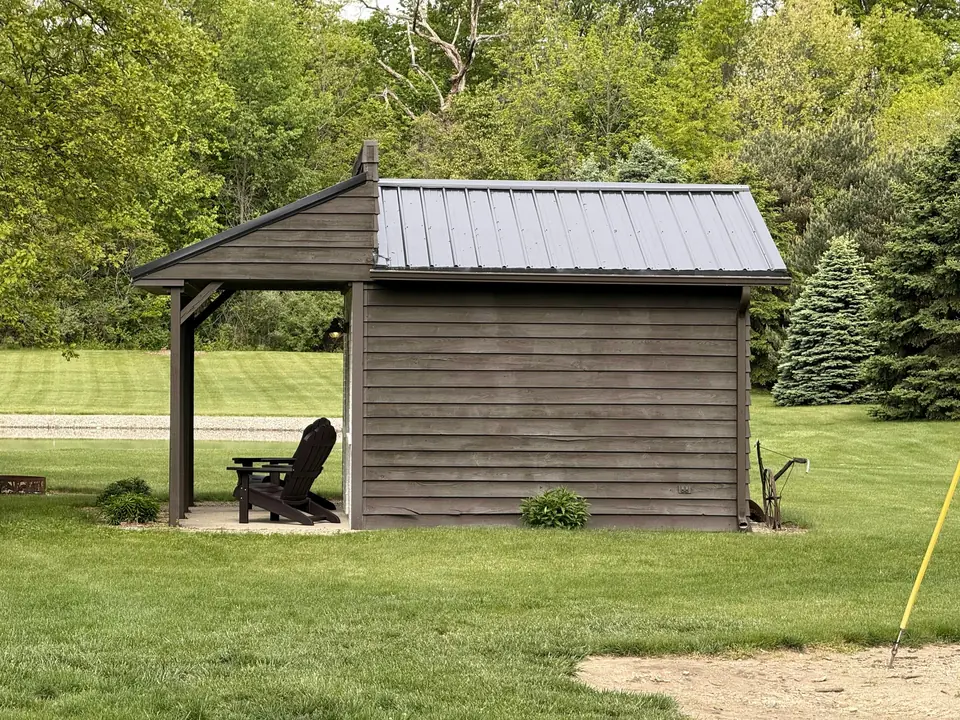
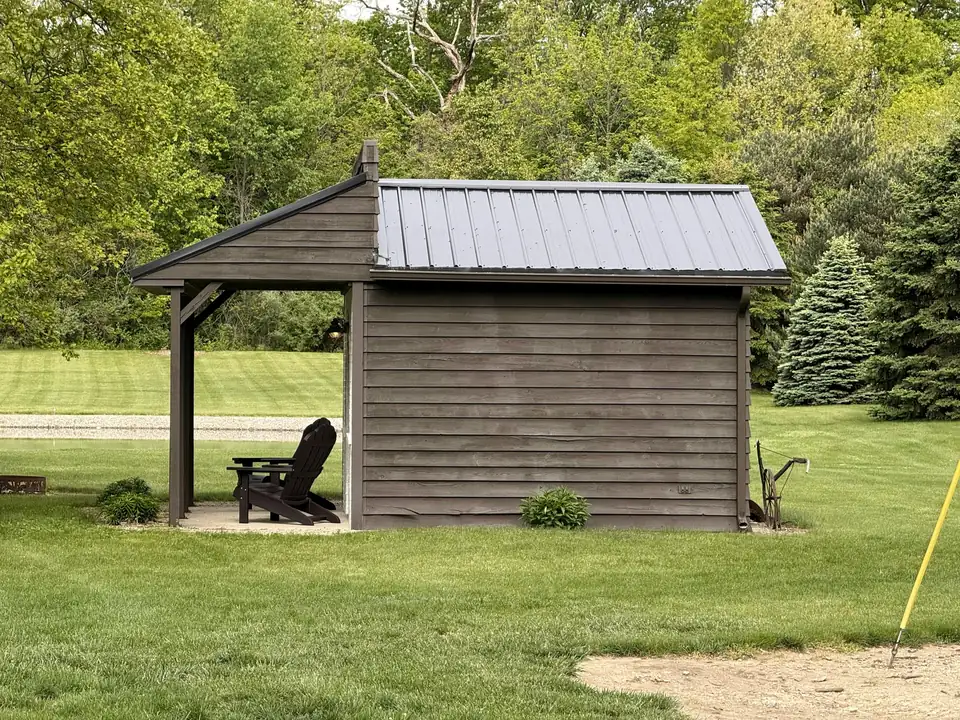
perf: add 720w photo variants and lighten the wide garden shot

diff --git a/galleria.html b/galleria.html
@@ -7,7 +7,7 @@
   <meta name="description" content="Foto e ispirazioni: la casetta da giardino Sally dentro e fuori, in giardino e come studio.">
   <meta name="theme-color" content="#ffffff">
   <link rel="icon" href="assets/favicon.svg" type="image/svg+xml">
-  <link rel="preload" as="image" href="assets/img/esterno-960.webp" imagesrcset="assets/img/esterno-480.webp 480w, assets/img/esterno-960.webp 960w" imagesizes="(min-width: 64em) 33vw, (min-width: 40em) 50vw, 100vw" fetchpriority="high">
+  <link rel="preload" as="image" href="assets/img/esterno-720.webp" imagesrcset="assets/img/esterno-480.webp 480w, assets/img/esterno-720.webp 720w, assets/img/esterno-960.webp 960w" imagesizes="(min-width: 64em) 33vw, (min-width: 40em) 50vw, 100vw" fetchpriority="high">
   <link rel="stylesheet" href="css/style.css">
   <script>document.documentElement.classList.add('js');</script>
   <script src="js/main.js" defer></script>
@@ -57,8 +57,8 @@
           <li class="gallery__item gallery__item--wide">
             <figure class="gallery__figure">
               <a class="gallery__link" href="assets/img/esterno-1440.webp" data-lightbox>
-                <img src="assets/img/esterno-960.webp"
-                     srcset="assets/img/esterno-480.webp 480w, assets/img/esterno-960.webp 960w"
+                <img src="assets/img/esterno-720.webp"
+                     srcset="assets/img/esterno-480.webp 480w, assets/img/esterno-720.webp 720w, assets/img/esterno-960.webp 960w"
                      sizes="(min-width: 64em) 33vw, (min-width: 40em) 50vw, 100vw" width="1440" height="960"
                      alt="Casetta da giardino bianca con porta e finestra verde scuro, davanti a una siepe" fetchpriority="high" decoding="async">
                 <span class="visually-hidden">(apri ingrandimento)</span>
@@ -70,9 +70,9 @@
             <figure class="gallery__figure">
               <a class="gallery__link" href="assets/img/porta-1440.webp" data-lightbox>
                 <img src="assets/img/porta-960.webp"
-                     srcset="assets/img/porta-480.webp 480w, assets/img/porta-960.webp 960w"
+                     srcset="assets/img/porta-480.webp 480w, assets/img/porta-720.webp 720w, assets/img/porta-960.webp 960w"
                      sizes="(min-width: 64em) 33vw, (min-width: 40em) 50vw, 100vw" width="1440" height="2561"
-                     alt="Porta aperta di una casetta bianca, con attrezzi e vasi ordinati all’interno" decoding="async">
+                     alt="Porta aperta di una casetta bianca, con attrezzi e vasi ordinati all’interno" loading="lazy" decoding="async">
                 <span class="visually-hidden">(apri ingrandimento)</span>
               </a>
               <figcaption class="gallery__caption"><span class="gallery__num">02</span> Interno con porta</figcaption>
@@ -82,7 +82,7 @@
             <figure class="gallery__figure">
               <a class="gallery__link" href="assets/img/interno-1440.webp" data-lightbox>
                 <img src="assets/img/interno-960.webp"
-                     srcset="assets/img/interno-480.webp 480w, assets/img/interno-960.webp 960w"
+                     srcset="assets/img/interno-480.webp 480w, assets/img/interno-720.webp 720w, assets/img/interno-960.webp 960w"
                      sizes="(min-width: 64em) 33vw, (min-width: 40em) 50vw, 100vw" width="1440" height="1920"
                      alt="Interno luminoso arredato come studio, con scrivania, libreria e finestra sul giardino" loading="lazy" decoding="async">
                 <span class="visually-hidden">(apri ingrandimento)</span>
@@ -94,7 +94,7 @@
             <figure class="gallery__figure">
               <a class="gallery__link" href="assets/img/giardino-vicino-1440.webp" data-lightbox>
                 <img src="assets/img/giardino-vicino-960.webp"
-                     srcset="assets/img/giardino-vicino-480.webp 480w, assets/img/giardino-vicino-960.webp 960w"
+                     srcset="assets/img/giardino-vicino-480.webp 480w, assets/img/giardino-vicino-720.webp 720w, assets/img/giardino-vicino-960.webp 960w"
                      sizes="(min-width: 64em) 33vw, (min-width: 40em) 50vw, 100vw" width="1440" height="960"
                      alt="Casetta con pannelli antracite e profili bianchi, incorniciata da foglie gialle" loading="lazy" decoding="async">
                 <span class="visually-hidden">(apri ingrandimento)</span>
@@ -106,7 +106,7 @@
             <figure class="gallery__figure">
               <a class="gallery__link" href="assets/img/giardino-largo-1440.webp" data-lightbox>
                 <img src="assets/img/giardino-largo-960.webp"
-                     srcset="assets/img/giardino-largo-480.webp 480w, assets/img/giardino-largo-960.webp 960w"
+                     srcset="assets/img/giardino-largo-480.webp 480w, assets/img/giardino-largo-720.webp 720w, assets/img/giardino-largo-960.webp 960w"
                      sizes="(min-width: 64em) 33vw, (min-width: 40em) 50vw, 100vw" width="1440" height="1080"
                      alt="Casetta in legno scuro con portico coperto su un ampio prato alberato" loading="lazy" decoding="async">
                 <span class="visually-hidden">(apri ingrandimento)</span>
@@ -118,7 +118,7 @@
             <figure class="gallery__figure">
               <a class="gallery__link" href="assets/img/terrazza-1440.webp" data-lightbox>
                 <img src="assets/img/terrazza-960.webp"
-                     srcset="assets/img/terrazza-480.webp 480w, assets/img/terrazza-960.webp 960w"
+                     srcset="assets/img/terrazza-480.webp 480w, assets/img/terrazza-720.webp 720w, assets/img/terrazza-960.webp 960w"
                      sizes="(min-width: 64em) 33vw, (min-width: 40em) 50vw, 100vw" width="1440" height="960"
                      alt="Moduli in legno con grandi vetrate affacciati su una pedana in doghe" loading="lazy" decoding="async">
                 <span class="visually-hidden">(apri ingrandimento)</span>

diff --git a/index.html b/index.html
@@ -121,7 +121,7 @@
 
         <figure class="product__media" data-reveal>
           <img src="assets/img/dettaglio-960.webp"
-               srcset="assets/img/dettaglio-480.webp 480w, assets/img/dettaglio-960.webp 960w, assets/img/dettaglio-1440.webp 1440w"
+               srcset="assets/img/dettaglio-480.webp 480w, assets/img/dettaglio-720.webp 720w, assets/img/dettaglio-960.webp 960w, assets/img/dettaglio-1440.webp 1440w"
                sizes="(min-width: 64em) 40vw, 100vw" width="1440" height="960"
                alt="Dettaglio di una parete in doghe di legno scuro con due finestre a filo"
                loading="lazy" decoding="async">
